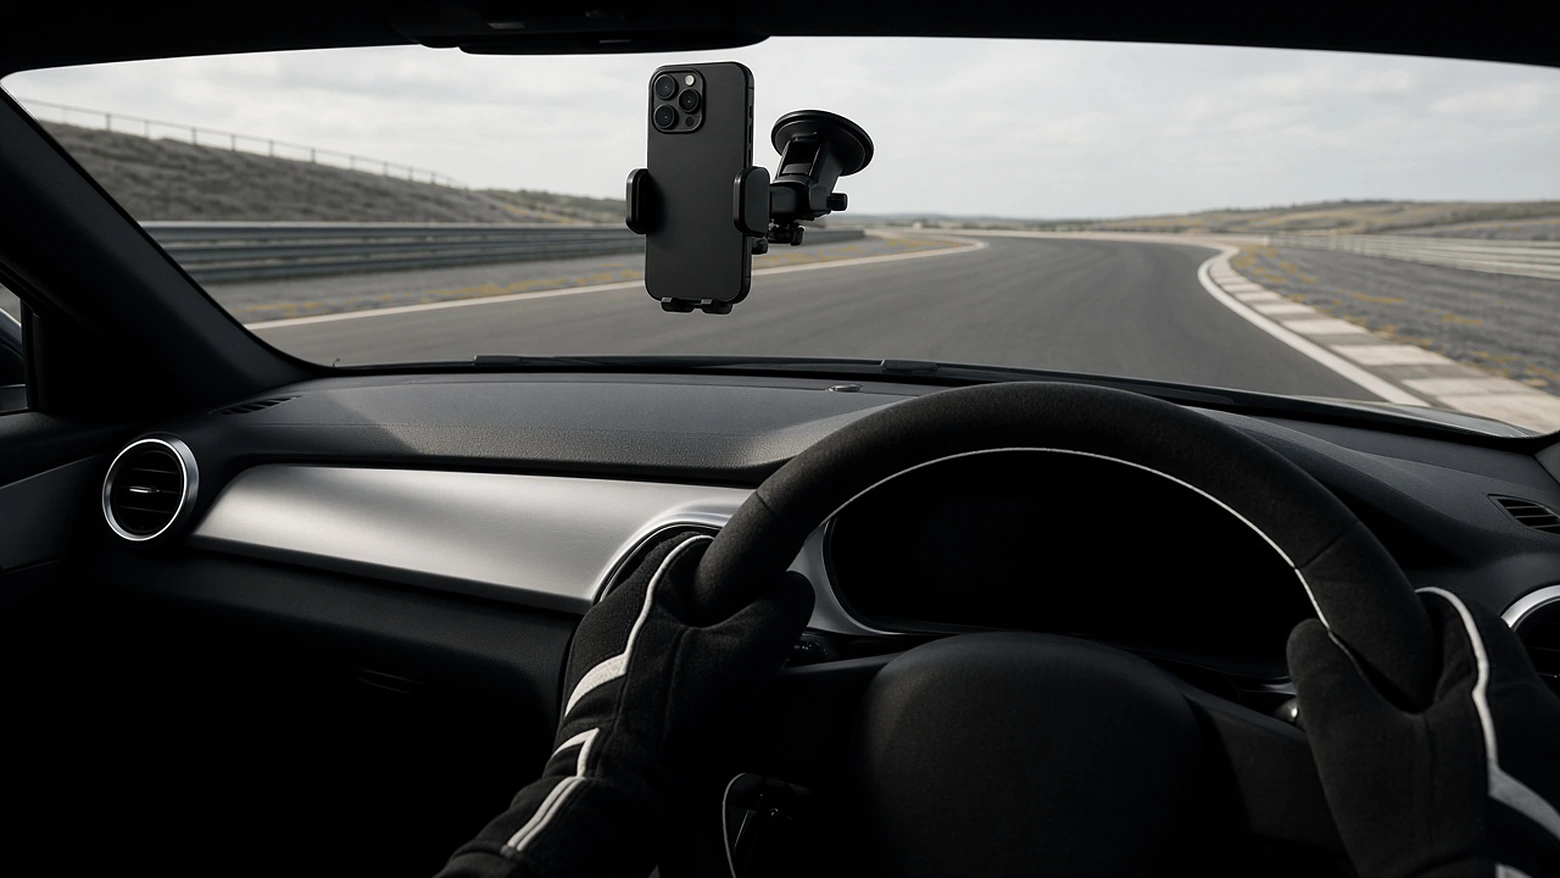
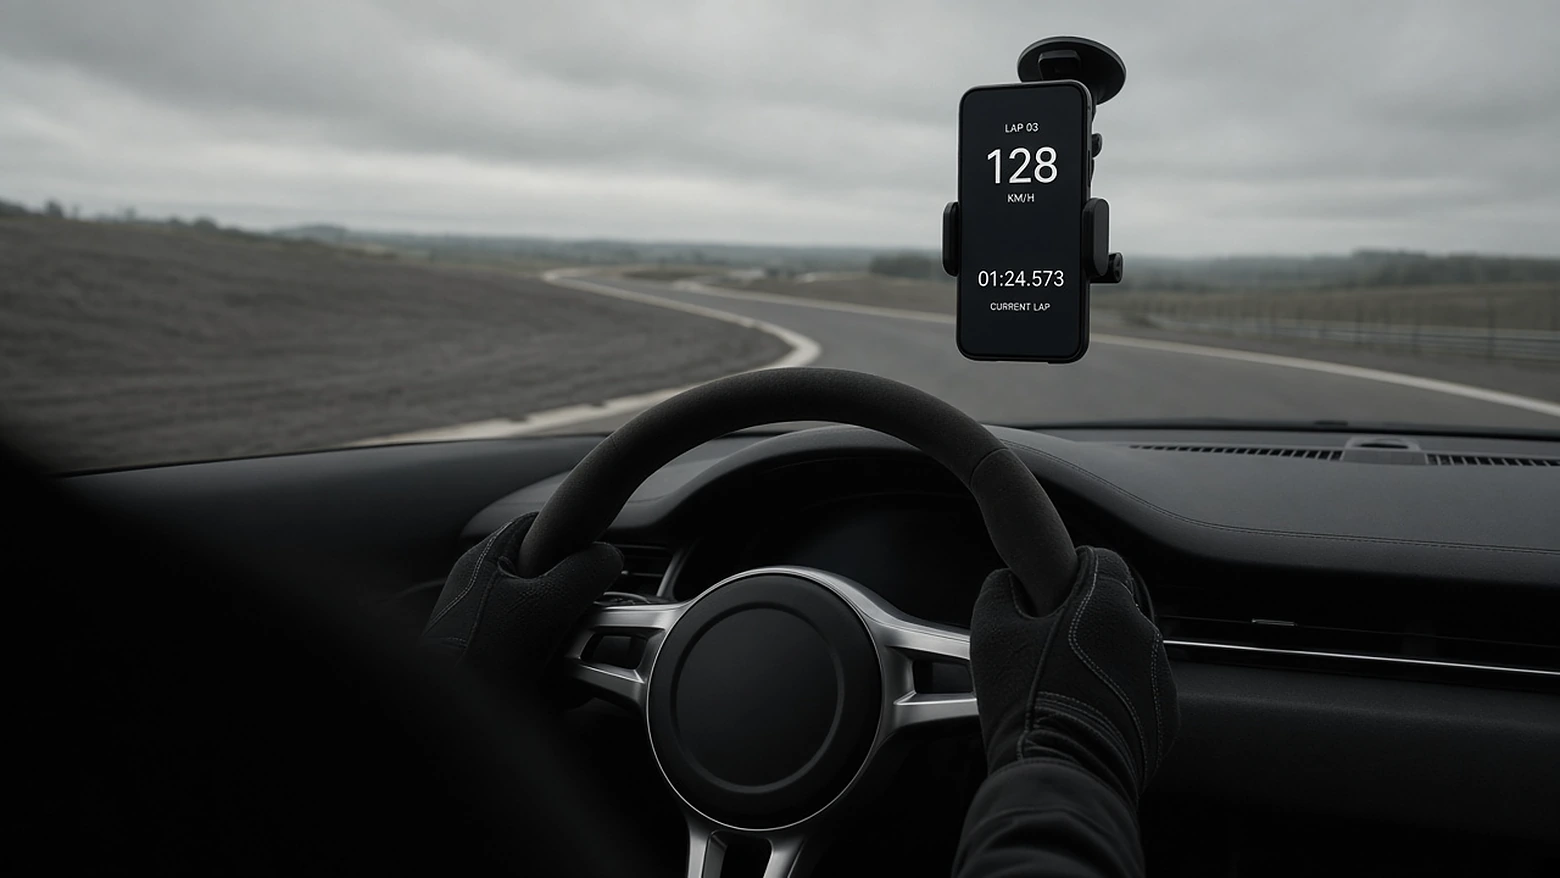
v174: баннеры — кнопка своей строкой под подписью, заголовок до 2 строк, текст и кнопка больше не перекрываются (390/320); видео-баннер — телефон экраном к зрителю (128 км/ч, время круга), кадр справа сверху; Замер «Призрак» — обычная строка с текущим выбором справа, выбор в шторке (сегмент 0–100/¼ 

diff --git a/styles.css b/styles.css
@@ -6268,7 +6268,7 @@ html.v159:not(#_):not(#_) #view-home [hidden] { display: none !important; }
 html.v159:not(#_):not(#_) .bn52 { margin: 0 calc(-1 * var(--gutter)) var(--s3) !important; }
 html.v159:not(#_):not(#_) .bn52-track { padding: 0 var(--gutter) !important; scroll-padding-inline: var(--gutter) !important; gap: var(--s1) !important; }
 html.v159:not(#_):not(#_) .bn52-s { width: calc(100vw - 2 * var(--gutter)) !important; }
-html.v159:not(#_):not(#_) .bn52-s::after { top: auto; height: 62%; background: linear-gradient(0deg, rgba(0,0,0,.78) 0%, rgba(0,0,0,.5) 45%, rgba(0,0,0,0) 100%); } /* v163: скрим только под текстом, фото выше — в полную яркость */
+html.v159:not(#_):not(#_) .bn52-s::after { top: auto; height: 78%; background: linear-gradient(0deg, rgba(0,0,0,.84) 0%, rgba(0,0,0,.6) 42%, rgba(0,0,0,0) 100%); } /* v163: скрим только под текстом, фото выше — в полную яркость */
 html.v159:not(#_):not(#_) .bn52-s, html.v159:not(#_):not(#_) .bn52-track > * { border-radius: var(--r3) !important; box-shadow: none !important; }
 html.v159:not(#_):not(#_) .bn52-dot { background: var(--ds-line-2) !important; border-radius: 1px !important; height: 2px !important; width: 16px !important; box-shadow: none !important; }
 html.v159:not(#_):not(#_) .bn52-dot.on { background: var(--ds-text) !important; width: 24px !important; }
@@ -6738,7 +6738,7 @@ html.v159:not(#_):not(#_) .bn52-s img { filter: none !important; }
 html.v159:not(#_):not(#_) .bn52-s.b-chip img { object-position: 62% 50%; }
 html.v159:not(#_):not(#_) .bn52-s.b-tops img { object-position: 64% 50%; }
 html.v159:not(#_):not(#_) .bn52-s.b-duels img { object-position: 78% 50%; }
-html.v159:not(#_):not(#_) .bn52-s.b-video img { object-position: 40% 60%; }
+html.v159:not(#_):not(#_) .bn52-s.b-video img { object-position: 74% 28%; } /* v174: экран телефона (128 км/ч, время круга) справа сверху, не под текстом */
 html.v159:not(#_):not(#_) .bn52-s.b-track img { object-position: 60% 50%; }
 html.v159:not(#_):not(#_) .bn52-k { color: rgba(255,255,255,.82) !important; }
 html.v159:not(#_):not(#_) .bn52-t { font: 600 24px/28px var(--font-ui) !important; letter-spacing: -.01em !important; color: #fff !important; }
@@ -6966,3 +6966,30 @@ html.v159:not(#_):not(#_) .ds-row.z61-ghost .ghost-pick { min-width: 0; flex: 1 
 html.v159:not(#_):not(#_) .ghost-pick .gp-chips { grid-template-columns: repeat(auto-fit, minmax(84px, 1fr)); }
 html.v159:not(#_):not(#_) #paintFinish button::before { content: ""; position: absolute; top: 0; bottom: 0; left: -9px; right: -9px; } /* нажимаемая зона короткой вкладки «Мат» ≥ 44px, подчёркивание прежнее */
 @media (max-width: 359px) { html.v159:not(#_):not(#_) #view-garage #colorBar { grid-template-columns: repeat(6, minmax(0, 1fr)) !important; gap: 10px !important; } } /* SE: свотчи ≥ 34px вместо 25px */
+
+/* ===== v174: баннеры — текст и кнопка никогда не перекрываются: кнопка своей строкой под подписью, заголовок до 2 строк, слайд растёт по содержимому ===== */
+html.v159:not(#_):not(#_) .bn52-s { aspect-ratio: auto !important; min-height: calc((100vw - 2 * var(--gutter)) * .625); max-height: none; }
+@media (min-width: 680px) { html.v159:not(#_):not(#_) .bn52-s { min-height: 400px; } }
+html.v159:not(#_):not(#_) .bn52-t { max-width: 100%; display: -webkit-box; -webkit-line-clamp: 2; -webkit-box-orient: vertical; overflow: hidden; overflow-wrap: anywhere; }
+html.v159:not(#_):not(#_) .bn52-d { max-width: 100% !important; }
+html.v159:not(#_):not(#_) .bn52-cta { position: relative !important; right: auto !important; bottom: auto !important; align-self: flex-start; margin-top: 10px; flex: none; }
+
+/* ===== v174: «Призрак» — строка как остальные, выбор в шторке: сегмент дисциплины + список с радио, без обрезки ===== */
+html.v159:not(#_):not(#_) #z61GhostV { white-space: normal; text-align: right; overflow-wrap: anywhere; }
+html.v159:not(#_):not(#_) .gh74-hint { margin: 4px 0 12px; color: var(--ds-sub); font: 400 13px/1.4 var(--font-ui); }
+html.v159:not(#_):not(#_) .ghost-pick.gh74 { display: grid; gap: 12px; margin: 0; }
+html.v159:not(#_):not(#_) .gh74 .gp-head { display: block; min-height: 0; }
+html.v159:not(#_):not(#_) .gh74 .gp-title { display: none; }
+html.v159:not(#_):not(#_) .gh74 .gp-disc { display: grid; grid-template-columns: 1fr 1fr; width: 100%; box-sizing: border-box; padding: 3px; gap: 3px; border-radius: var(--r2); border: 1px solid var(--ds-line-2); background: var(--ds-bg-2); }
+html.v159:not(#_):not(#_) .gh74 .gp-disc-btn { min-height: 40px; padding: 0 12px; border-radius: var(--r1); font: 600 14px/1 var(--font-ui); white-space: nowrap; }
+html.v159:not(#_):not(#_) .gh74 .gp-disc-btn.on { background: var(--ds-text); color: #0a0a0a; }
+html.v159:not(#_):not(#_) .gh74 .gp-chips { display: grid !important; grid-template-columns: 1fr !important; gap: 0 !important; border-top: 1px solid var(--ds-line); }
+html.v159:not(#_):not(#_) .gh74 .gp-chip { display: grid !important; grid-template-columns: 22px 1fr auto; align-items: center; column-gap: 12px; min-height: 56px; padding: 8px 2px !important; border: 0 !important; border-bottom: 1px solid var(--ds-line) !important; border-radius: 0 !important; background: transparent !important; text-align: left; }
+html.v159:not(#_):not(#_) .gh74 .gp-chip b { font: 500 16px/1.25 var(--font-ui) !important; color: var(--ds-text); white-space: normal !important; overflow: visible !important; text-overflow: clip !important; }
+html.v159:not(#_):not(#_) .gh74 .gp-chip small { font: 400 14px/1.25 var(--font-ui) !important; color: var(--ds-sub); white-space: nowrap !important; overflow: visible !important; text-overflow: clip !important; text-align: right; }
+html.v159:not(#_):not(#_) .gh74 .gh74-r { width: 20px; height: 20px; box-sizing: border-box; border-radius: 999px; border: 1.5px solid var(--ds-line-3); position: relative; }
+html.v159:not(#_):not(#_) .gh74 .gp-chip.on .gh74-r { border-color: var(--ds-text); }
+html.v159:not(#_):not(#_) .gh74 .gp-chip.on .gh74-r::after { content: ''; position: absolute; inset: 4px; border-radius: 999px; background: var(--ds-text); }
+html.v159:not(#_):not(#_) .gh74 .gp-chip:disabled { opacity: .45; }
+html.v159:not(#_):not(#_) .z61-rows .ds-row-v, html.v159:not(#_):not(#_) .t61-rows .ds-row-v { white-space: normal !important; overflow: visible !important; text-overflow: clip !important; text-align: right; min-width: 0; }
+html.v159:not(#_):not(#_) .nw74 { white-space: nowrap; }

diff --git a/app.js b/app.js
@@ -7283,6 +7283,7 @@ if (isTMA) {
     ['bannerSheet', 'bannerClose'], ['ghostResult', 'ghostResultClose'],
     ['sessionSheet', 'sessionSheetClose'],
     ['vtSheet', 'vtClose'], ['shopSheet', 'shopClose'], // v147
+    ['ghost74', 'ghost74Close'], // v174
     ['tgSheet', 'tgSheetClose'], ['gps61', 'gps61Close'], // v161
   ];
   const visible = (id) => { const el = document.getElementById(id); return !!(el && !el.classList.contains('hidden')); };
@@ -11344,10 +11345,23 @@ function renderGhostPick(scope) {
       : o ? fmtGhostT(kind, o.tMs) + (id === 'leader' && /ты$/.test(o.who) ? ' · ты' : '')
       : (id === 'leader' ? 'пока нет' : 'нет записи');
     b.appendChild(padEl('small', '', sub));
+    if (scope === 'run') { b.setAttribute('role', 'radio'); b.setAttribute('aria-checked', g.choice === id ? 'true' : 'false'); b.prepend(padEl('i', 'gh74-r')); }
     if (id !== 'none' && !o && !loading) b.disabled = true;
     row.appendChild(b);
   });
   box.appendChild(row);
+  if (scope === 'run') ghostRowValue74();
+}
+/** v174: строка «Призрак» на Замере — текущий выбор справа (без обрезки), шторка — полный список */
+function ghostRowValue74() {
+  const v = document.getElementById('z61GhostV'); if (!v) return;
+  const g = ghostRace.run; const kind = ghostScopeKind('run');
+  const lab = (GHOST_CHOICES.find(([id]) => id === g.choice) || [, 'Без призрака'])[1];
+  const o = g.choice !== 'none' ? g.opts[g.choice] : null;
+  const disc = (GHOST_DISCS.find(([id]) => id === g.disc) || [, ''])[1];
+  const t = g.choice === 'none' ? 'Без призрака' : (o ? lab + ' · ' + fmtGhostT(kind, o.tMs) : (g.status === 'loading' ? lab + ' · …' : lab + ' · нет записи'));
+  const parts = (g.choice === 'none' || !o ? t : t + ' · ' + disc).split(' · ');
+  v.replaceChildren(...parts.flatMap((x, i) => { const sp = document.createElement('span'); sp.className = 'nw74'; sp.textContent = x; return i ? [document.createTextNode(' · '), sp] : [sp]; })); // куски не рвутся посередине («0–100»)
 }
 function ghostPickClick(scope, e) {
   const g = ghostRace[scope];
@@ -11368,7 +11382,18 @@ function ghostPickClick(scope, e) {
   ghostSaveChoice();
   hap(8);
   ghostApplyChoice(scope);
+  if (scope === 'run') setTimeout(() => { try { window.__ghost74?.close(); } catch (_) {} }, 240);
 }
+// v174: шторка выбора призрака на Замере
+(() => {
+  const sh = document.getElementById('ghost74'); if (!sh) return;
+  const close = () => { sh.classList.add('hidden'); sh.setAttribute('aria-hidden', 'true'); };
+  const open = () => { try { hap(8); } catch (_) {} try { renderGhostPick('run'); } catch (_) {} sh.classList.remove('hidden'); sh.setAttribute('aria-hidden', 'false'); };
+  document.getElementById('z61Ghost')?.addEventListener('click', open);
+  sh.addEventListener('click', (e) => { if (e.target?.closest?.('[data-close74]')) close(); });
+  document.addEventListener('keydown', (e) => { if (e.key === 'Escape' && !sh.classList.contains('hidden')) close(); });
+  window.__ghost74 = { open, close };
+})();
 document.getElementById('lapGhostPick')?.addEventListener('click', (e) => ghostPickClick('lap', e));
 document.getElementById('runGhostPick')?.addEventListener('click', (e) => ghostPickClick('run', e));
 
@@ -11814,7 +11839,7 @@ async function rideDuelGhost(d) {
     ghostRace.run.disc = ref === '402m' ? '402m' : '0-100';
     goToView('run', { sfx: false });
     void ghostLoad('run');
-    try { document.getElementById('runGhostPick')?.scrollIntoView({ block: 'center', behavior: 'smooth' }); } catch (_) {}
+    try { window.__ghost74?.open(); } catch (_) {} // v174: выбор призрака — в шторке
   }
 }
 document.getElementById('duelRideGhost')?.addEventListener('click', () => { if (_activeDuel) void rideDuelGhost(_activeDuel); });
@@ -12884,7 +12909,7 @@ document.addEventListener('click', (e) => {
 
 
 /* -------- v80: Обратная связь (feedback sheet → Worker POST /feedback) -------- */
-const APP_VERSION = 'v173';
+const APP_VERSION = 'v174';
 const FB_MIN = 10;
 const FB_MAX = 2000;
 const FB_SHOT_MAX_SIDE = 1280;
@@ -13060,7 +13085,7 @@ document.getElementById('btnVideoRun')?.addEventListener('click', () => { void o
 document.getElementById('btnVideoLap')?.addEventListener('click', () => { void openVideoTele('lap'); });
 
 /* ——— v148: структура «Старт / Гараж / Профиль» ——— */
-document.documentElement.classList.add('v148', 'v150', 'v152', 'v153', 'v154', 'v155', 'v156', 'v158', 'v159', 'v160', 'v161', 'v162', 'v163', 'v164', 'v165', 'v166', 'v167', 'v168', 'v169', 'v170', 'v171', 'v172', 'v173');
+document.documentElement.classList.add('v148', 'v150', 'v152', 'v153', 'v154', 'v155', 'v156', 'v158', 'v159', 'v160', 'v161', 'v162', 'v163', 'v164', 'v165', 'v166', 'v167', 'v168', 'v169', 'v170', 'v171', 'v172', 'v173', 'v174');
 (() => {
   const nav = document.getElementById('nav3'); if (nav) document.body.appendChild(nav); // fixed вне трансформируемых контейнеров
   const sync = () => {

diff --git a/index.html b/index.html
@@ -357,7 +357,7 @@
             <p class="h48-gps" id="h48Gps" data-q="idle"><i aria-hidden="true"></i><span id="h48GpsV">GPS включится на старте</span></p>
             <div class="z61-rows" role="group" aria-label="Параметры замера">
               <button type="button" class="ds-row" id="z61Gps" aria-haspopup="dialog" aria-controls="gps61"><span class="ds-row-k">Источник GPS</span><span class="ds-row-v" data-gps61>Телефон</span></button>
-              <div class="ds-row z61-ghost"><span class="ds-row-k">Призрак</span><div class="ghost-pick" id="runGhostPick" data-scope="run"></div></div>
+              <button type="button" class="ds-row" id="z61Ghost" aria-haspopup="dialog" aria-controls="ghost74"><span class="ds-row-k">Призрак</span><span class="ds-row-v" id="z61GhostV">Без призрака</span></button>
               <button type="button" class="ds-row" data-view="history" data-jf="run"><span class="ds-row-k">Журнал замеров</span><span class="ds-row-v" id="z61Last">—</span></button>
             </div>
             <button type="button" class="v54-video" id="h54Video" aria-label="Старт с видео: запись с камеры и телеметрией"><svg viewBox="0 0 24 24" aria-hidden="true"><rect x="3" y="7" width="13" height="10" rx="2.5"/><path d="M16 11l5-3v8l-5-3z"/></svg><span>С видео</span></button>
@@ -1380,6 +1380,13 @@
           <button type="button" class="gfx64-o" role="radio" data-gfx="max"><span><b>Максимум</b><small>Полная плотность экрана до ×3, отражения, мягкие тени</small></span><i aria-hidden="true"></i></button>
           <p class="gfx64-note" id="gfx64Note"></p>
         </div>
+      </div>
+    </div>
+    <div class="ds-sheet hidden" id="ghost74" role="dialog" aria-modal="true" aria-label="Призрак" aria-hidden="true">
+      <div class="ds-sheet-scrim" data-close74></div>
+      <div class="ds-sheet-panel">
+        <header class="ds-sheet-hd"><b>Призрак</b><button type="button" class="ds-sheet-x" id="ghost74Close" data-close74 aria-label="Закрыть"><svg viewBox="0 0 24 24" aria-hidden="true"><path d="M6 6l12 12M18 6L6 18"/></svg></button></header>
+        <div class="ds-sheet-body"><p class="gh74-hint">С кем соревноваться в заезде — призрак едет рядом, дельта видна в реальном времени.</p><div class="ghost-pick gh74" id="runGhostPick" data-scope="run"></div></div>
       </div>
     </div>
     <div class="ds-sheet hidden" id="gps61" role="dialog" aria-modal="true" aria-label="Источник GPS" aria-hidden="true">

diff --git a/sw.js b/sw.js
@@ -1,4 +1,4 @@
-const CACHE = 'pitlane-v173';
+const CACHE = 'pitlane-v174';
 const GLB_CACHE = 'pitlane-glb-v2';
 const THREE_CACHE = 'pitlane-three-v1';
 

diff --git a/tools/banners169.py b/tools/banners169.py
@@ -5,8 +5,9 @@ import os, re, subprocess, sys
 from PIL import Image, ImageFilter
 R = os.path.dirname(os.path.dirname(os.path.abspath(__file__))); os.chdir(R)
 K = ['gps', 'tops', 'duels', 'video', 'track']
+ONLY = [a for a in sys.argv[1:] if a in K] or K  # v174: можно пересобрать один баннер: banners169.py video
 OLD = {'gps': './img/shop/gps-hero-720.webp', 'tops': './img/banners/tracks-800.webp', 'duels': './img/banners/duels-800.webp', 'video': './img/banners/paddock-800.webp', 'track': './img/track-maps/auto-msk-full.webp'}
-for k in K:
+for k in ONLY:
     src = f'img/banners/raw/{k}.jpg'
     if not os.path.exists(src): sys.exit('нет ' + src)
     tmp = f'/tmp/bn-{k}-dg.png'; Image.open(src).convert('RGB').save(tmp)
